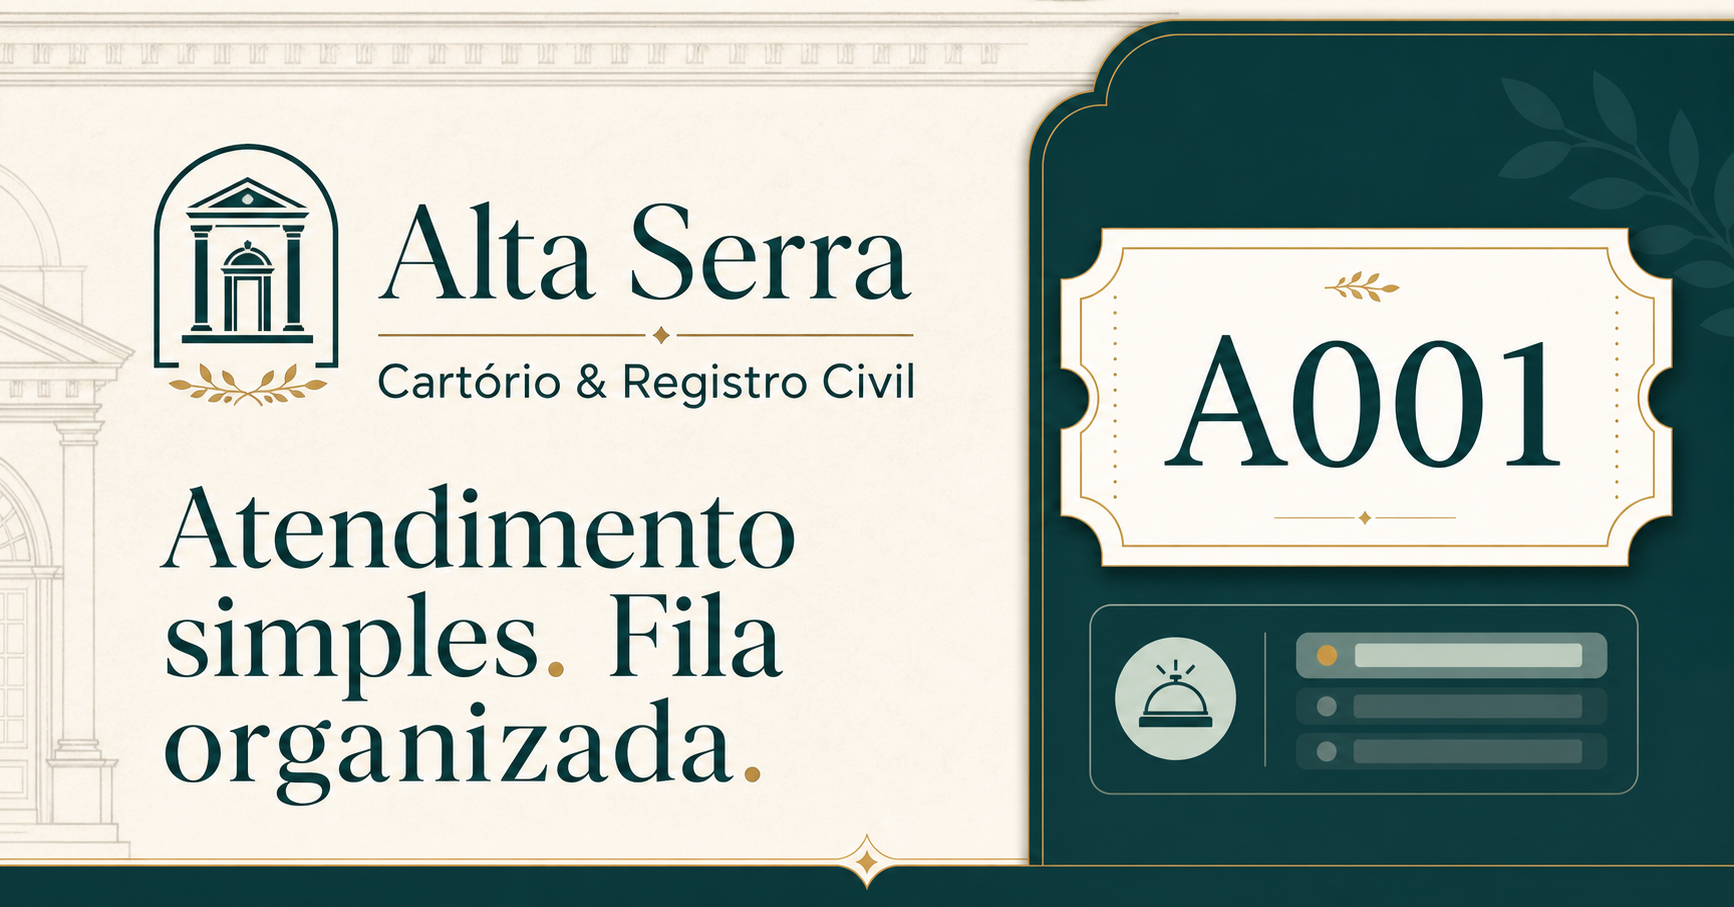
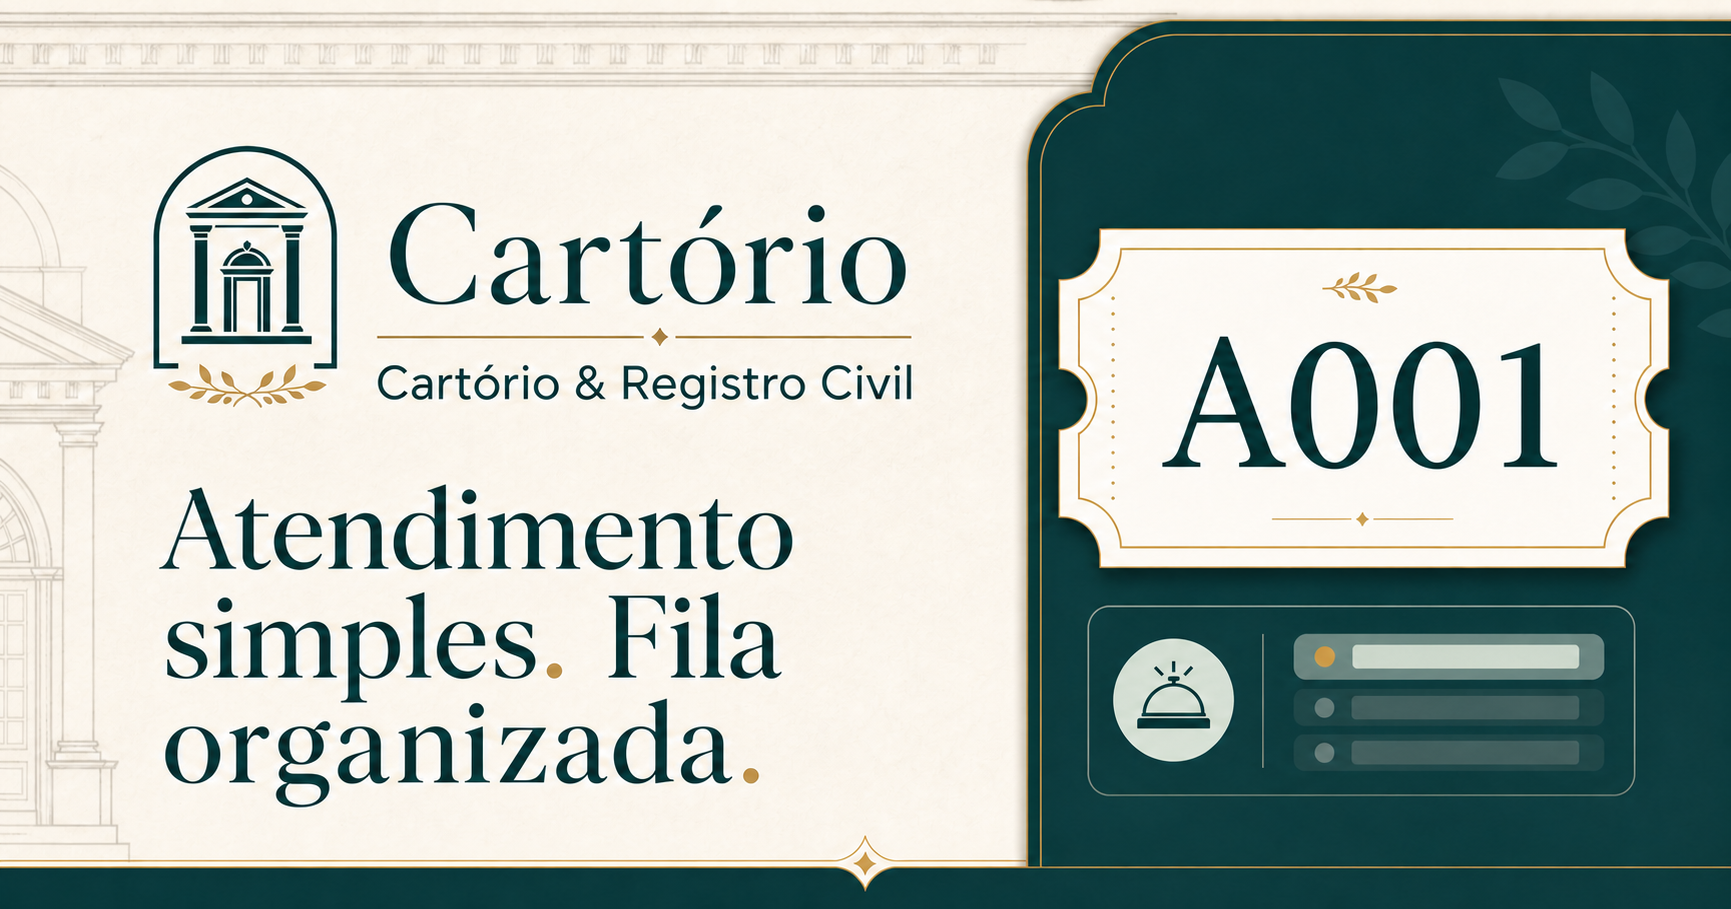
Fix hydration and generalize cartorio branding

diff --git a/app/queue-app.tsx b/app/queue-app.tsx
@@ -59,25 +59,47 @@ const EMPTY_QUEUE: QueuePayload = {
   deskCount: 4,
 };
 
+const TIME_ZONE = "America/Maceio";
+const CLOCK_TIME_FORMATTER = new Intl.DateTimeFormat("pt-BR", {
+  hour: "2-digit",
+  minute: "2-digit",
+  timeZone: TIME_ZONE,
+});
+const DISPLAY_DATE_FORMATTER = new Intl.DateTimeFormat("pt-BR", {
+  weekday: "long",
+  day: "2-digit",
+  month: "long",
+  timeZone: TIME_ZONE,
+});
+
 function formatTime(date: string | null) {
   if (!date) return "—";
   return new Intl.DateTimeFormat("pt-BR", {
     hour: "2-digit",
     minute: "2-digit",
+    timeZone: TIME_ZONE,
   }).format(new Date(date));
+}
+
+function formatClockTime(date: Date | null) {
+  return date ? CLOCK_TIME_FORMATTER.format(date) : "--:--";
+}
+
+function formatDisplayDate(date: Date | null) {
+  return date ? DISPLAY_DATE_FORMATTER.format(date) : "Carregando data…";
 }
 
 function Logo() {
   return (
-    <div className="brand" aria-label="Cartório Alta Serra">
+    <div className="brand" aria-label="Cartório">
       <span className="brand-mark" aria-hidden="true">
         <i />
         <i />
         <i />
       </span>
       <span>
-        <strong>Alta Serra</strong>
-        <small>Cartório &amp; Registro Civil</small>
+        <strong>Cartório</strong>
+        <small>Registro Civil</small>
       </span>
     </div>
   );
@@ -110,7 +132,7 @@ export function QueueApp({ initialMode }: { initialMode: Mode }) {
   const [priority, setPriority] = useState(false);
   const [desk, setDesk] = useState(1);
   const [busy, setBusy] = useState(false);
-  const [now, setNow] = useState(new Date());
+  const [now, setNow] = useState<Date | null>(null);
   const [displaySound, setDisplaySound] = useState(false);
   const [deskCountDraft, setDeskCountDraft] = useState(4);
   const [savedMessage, setSavedMessage] = useState("");
@@ -125,6 +147,9 @@ export function QueueApp({ initialMode }: { initialMode: Mode }) {
       const data = (await response.json()) as QueuePayload & { error?: string };
       if (!response.ok) throw new Error(data.error || "Não foi possível carregar a fila.");
       setQueue(data);
+      setDesk((currentDesk) =>
+        Math.min(currentDesk, Math.max(1, data.deskCount))
+      );
       setError("");
     } catch {
       setError("Não foi possível conectar à fila. Tente novamente.");
@@ -134,10 +159,14 @@ export function QueueApp({ initialMode }: { initialMode: Mode }) {
   }, []);
 
   useEffect(() => {
-    loadQueue();
+    const updateClock = () => setNow(new Date());
+    const initialLoad = window.setTimeout(() => loadQueue(), 0);
+    const initialClock = window.setTimeout(updateClock, 0);
     const refresh = window.setInterval(() => loadQueue(true), 3500);
-    const clock = window.setInterval(() => setNow(new Date()), 30000);
+    const clock = window.setInterval(updateClock, 30000);
     return () => {
+      window.clearTimeout(initialLoad);
+      window.clearTimeout(initialClock);
       window.clearInterval(refresh);
       window.clearInterval(clock);
     };
@@ -148,10 +177,7 @@ export function QueueApp({ initialMode }: { initialMode: Mode }) {
       setDeskCountDraft(queue.deskCount);
       adminConfigLoaded.current = true;
     }
-    if (desk > queue.deskCount) {
-      setDesk(queue.deskCount);
-    }
-  }, [desk, queue.deskCount]);
+  }, [queue.deskCount]);
 
   async function sendAction(payload: Record<string, unknown>) {
     setBusy(true);
@@ -351,19 +377,8 @@ export function QueueApp({ initialMode }: { initialMode: Mode }) {
             <span>Atendimento em funcionamento</span>
           </div>
           <div className="display-clock">
-            <span>
-              {now.toLocaleDateString("pt-BR", {
-                weekday: "long",
-                day: "2-digit",
-                month: "long",
-              })}
-            </span>
-            <strong>
-              {now.toLocaleTimeString("pt-BR", {
-                hour: "2-digit",
-                minute: "2-digit",
-              })}
-            </strong>
+            <span>{formatDisplayDate(now)}</span>
+            <strong>{formatClockTime(now)}</strong>
           </div>
           <div className="display-controls">
             <button
@@ -387,12 +402,7 @@ export function QueueApp({ initialMode }: { initialMode: Mode }) {
             <div className="top-meta">
               <span className="status-dot" />
               <span>Sistema online</span>
-              <strong>
-                {now.toLocaleTimeString("pt-BR", {
-                  hour: "2-digit",
-                  minute: "2-digit",
-                })}
-              </strong>
+              <strong>{formatClockTime(now)}</strong>
             </div>
           </header>
           <section className="admin-content">
@@ -516,12 +526,7 @@ export function QueueApp({ initialMode }: { initialMode: Mode }) {
           <div className="top-meta">
             <span className="status-dot" />
             <span>Sistema online</span>
-            <strong>
-              {now.toLocaleTimeString("pt-BR", {
-                hour: "2-digit",
-                minute: "2-digit",
-              })}
-            </strong>
+            <strong>{formatClockTime(now)}</strong>
           </div>
         </header>
       )}
@@ -529,7 +534,7 @@ export function QueueApp({ initialMode }: { initialMode: Mode }) {
       {initialMode === "client" ? (
         <section className="client-content">
           <div className="client-heading">
-            <p className="kicker">Bem-vindo ao Cartório Alta Serra</p>
+            <p className="kicker">Bem-vindo ao Cartório</p>
             <h1>Como podemos ajudar?</h1>
             <p>Toque em uma opção abaixo para retirar sua senha.</p>
           </div>
@@ -650,7 +655,7 @@ export function QueueApp({ initialMode }: { initialMode: Mode }) {
           </aside>
 
           <footer className="display-footer">
-            <span className="display-footer-mark">AS</span>
+            <span className="display-footer-mark">CR</span>
             <p>
               Tenha seus documentos em mãos. Ao ser chamado, dirija-se ao
               guichê indicado.

diff --git a/app/layout.tsx b/app/layout.tsx
@@ -26,24 +26,24 @@ export async function generateMetadata(): Promise<Metadata> {
   const image = new URL("/og.png", `${protocol}://${host}`).toString();
 
   return {
-    title: "Fila Alta Serra | Atendimento",
+    title: "Cartório | Atendimento",
     description:
-      "Sistema de senhas e atendimento do Cartório Alta Serra.",
+      "Sistema de senhas e atendimento do cartório.",
     icons: {
       icon: "/favicon.svg",
       shortcut: "/favicon.svg",
     },
     openGraph: {
-      title: "Alta Serra | Atendimento simples. Fila organizada.",
+      title: "Cartório | Atendimento simples. Fila organizada.",
       description:
         "Retirada de senhas e gestão de atendimento em uma fila integrada.",
-      images: [{ url: image, width: 1734, height: 907 }],
+      images: [{ url: image, width: 1731, height: 909 }],
       locale: "pt_BR",
       type: "website",
     },
     twitter: {
       card: "summary_large_image",
-      title: "Alta Serra | Atendimento simples. Fila organizada.",
+      title: "Cartório | Atendimento simples. Fila organizada.",
       description:
         "Retirada de senhas e gestão de atendimento em uma fila integrada.",
       images: [image],

diff --git a/README.md b/README.md
@@ -1,4 +1,4 @@
-# Fila Alta Serra
+# Fila do Cartório
 
 Sistema de senhas para cartório com três telas integradas:
 
